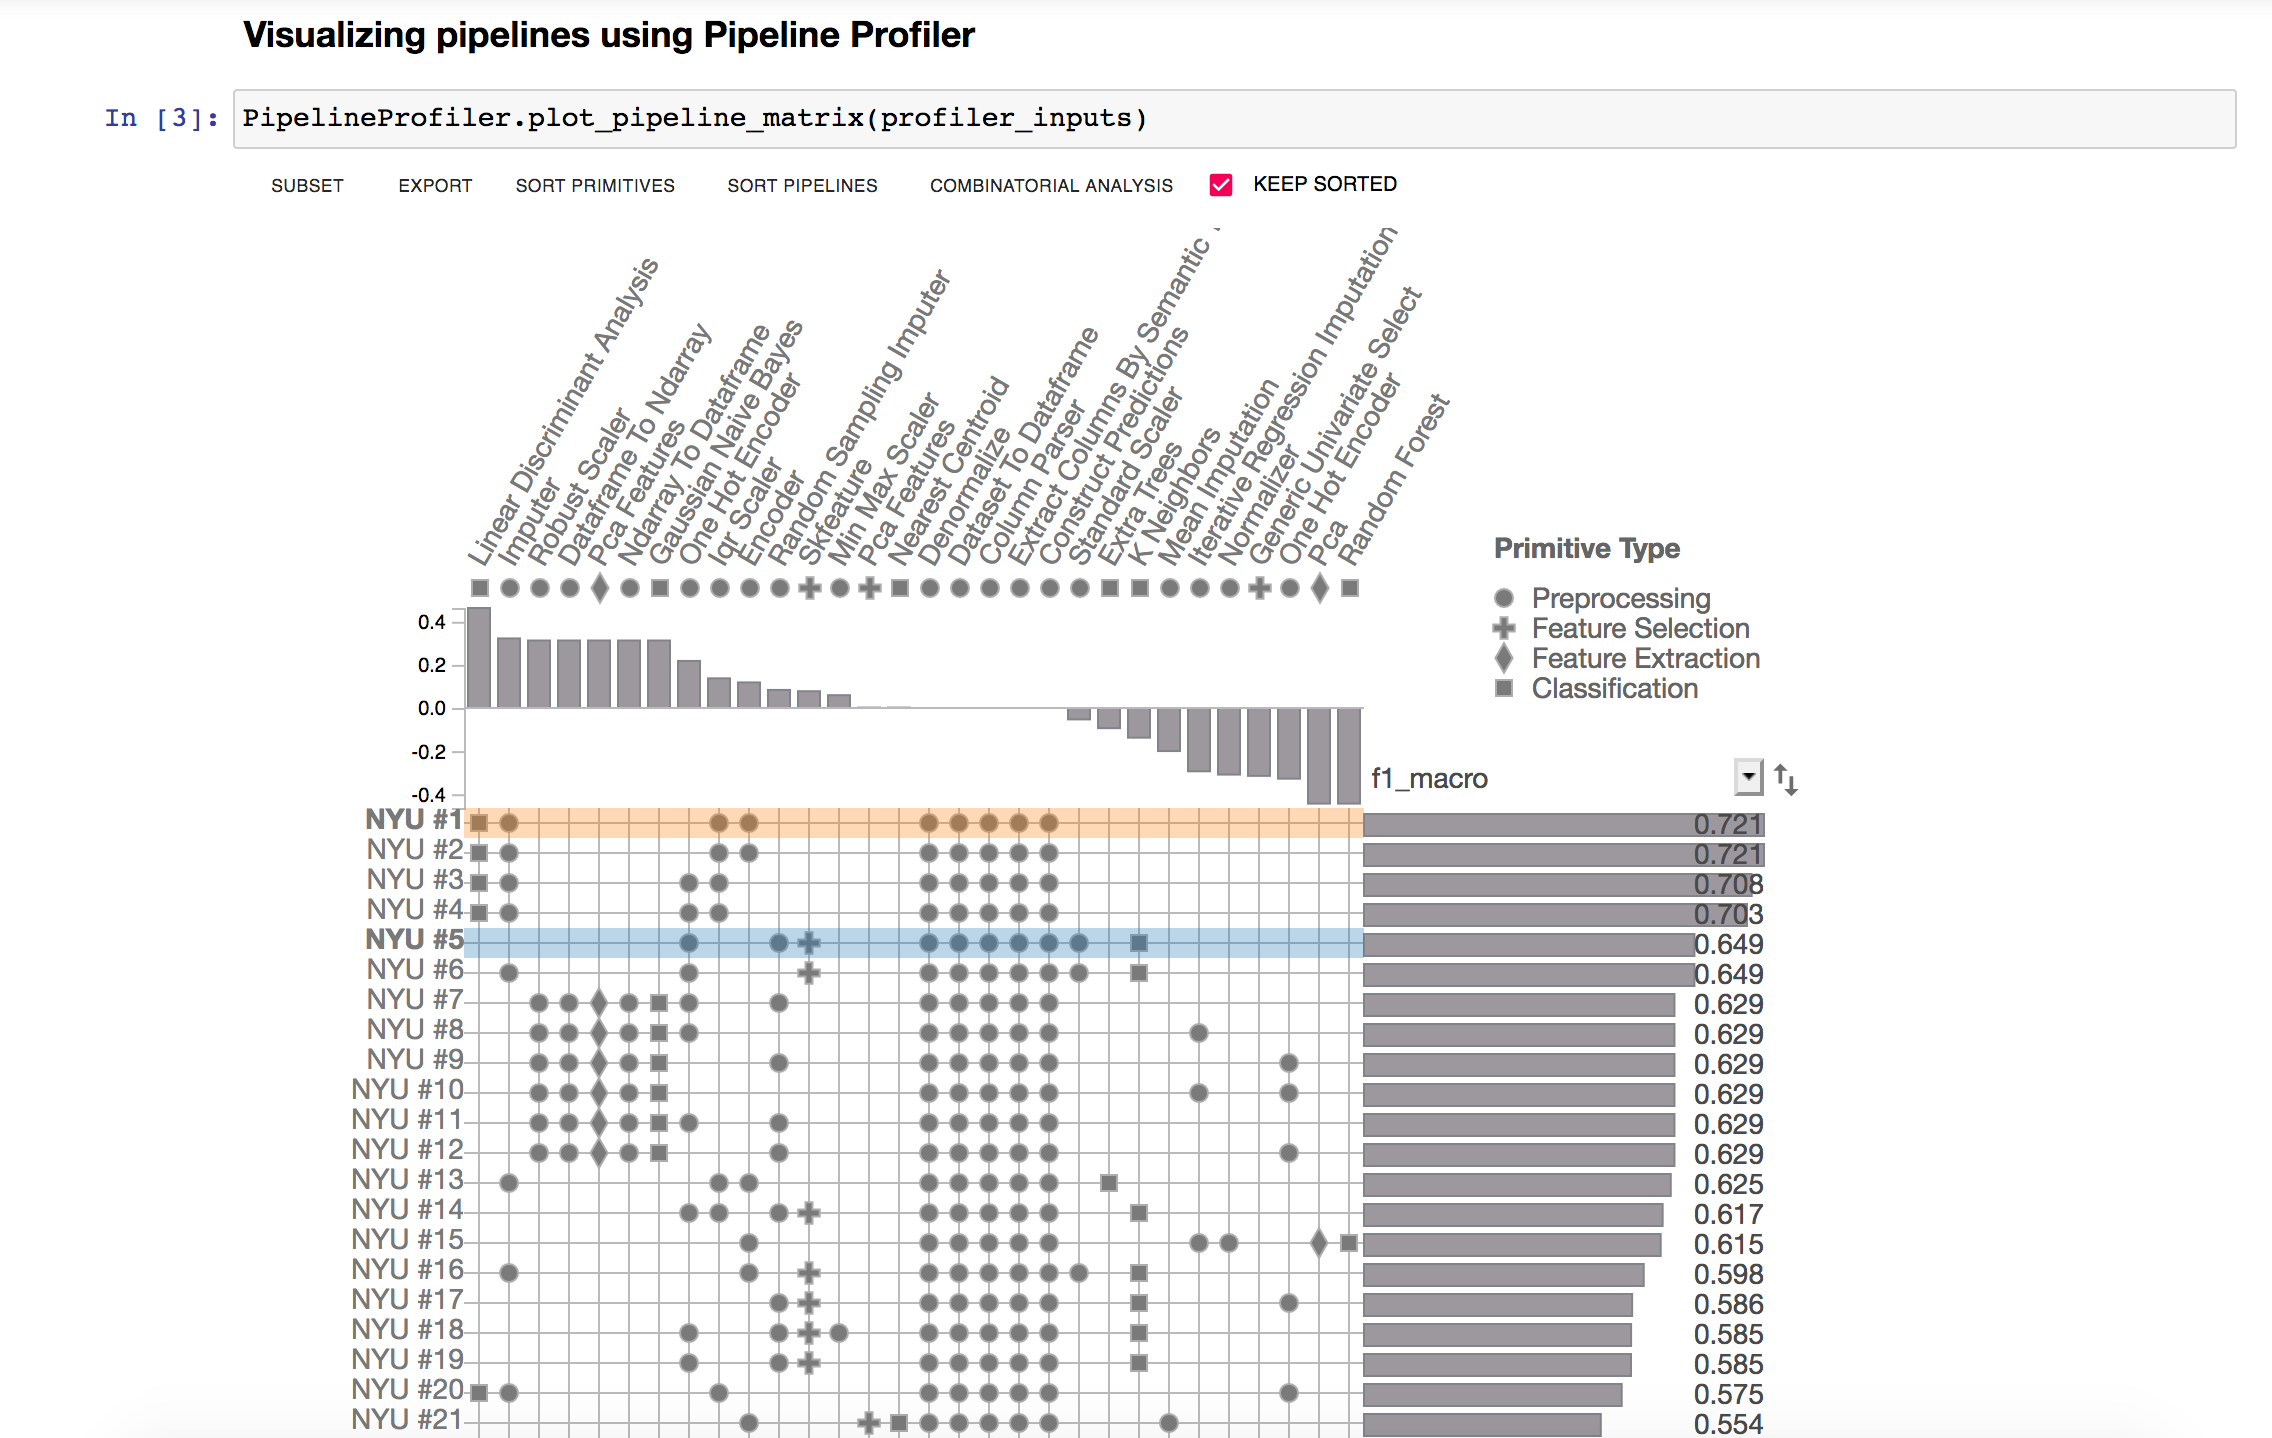
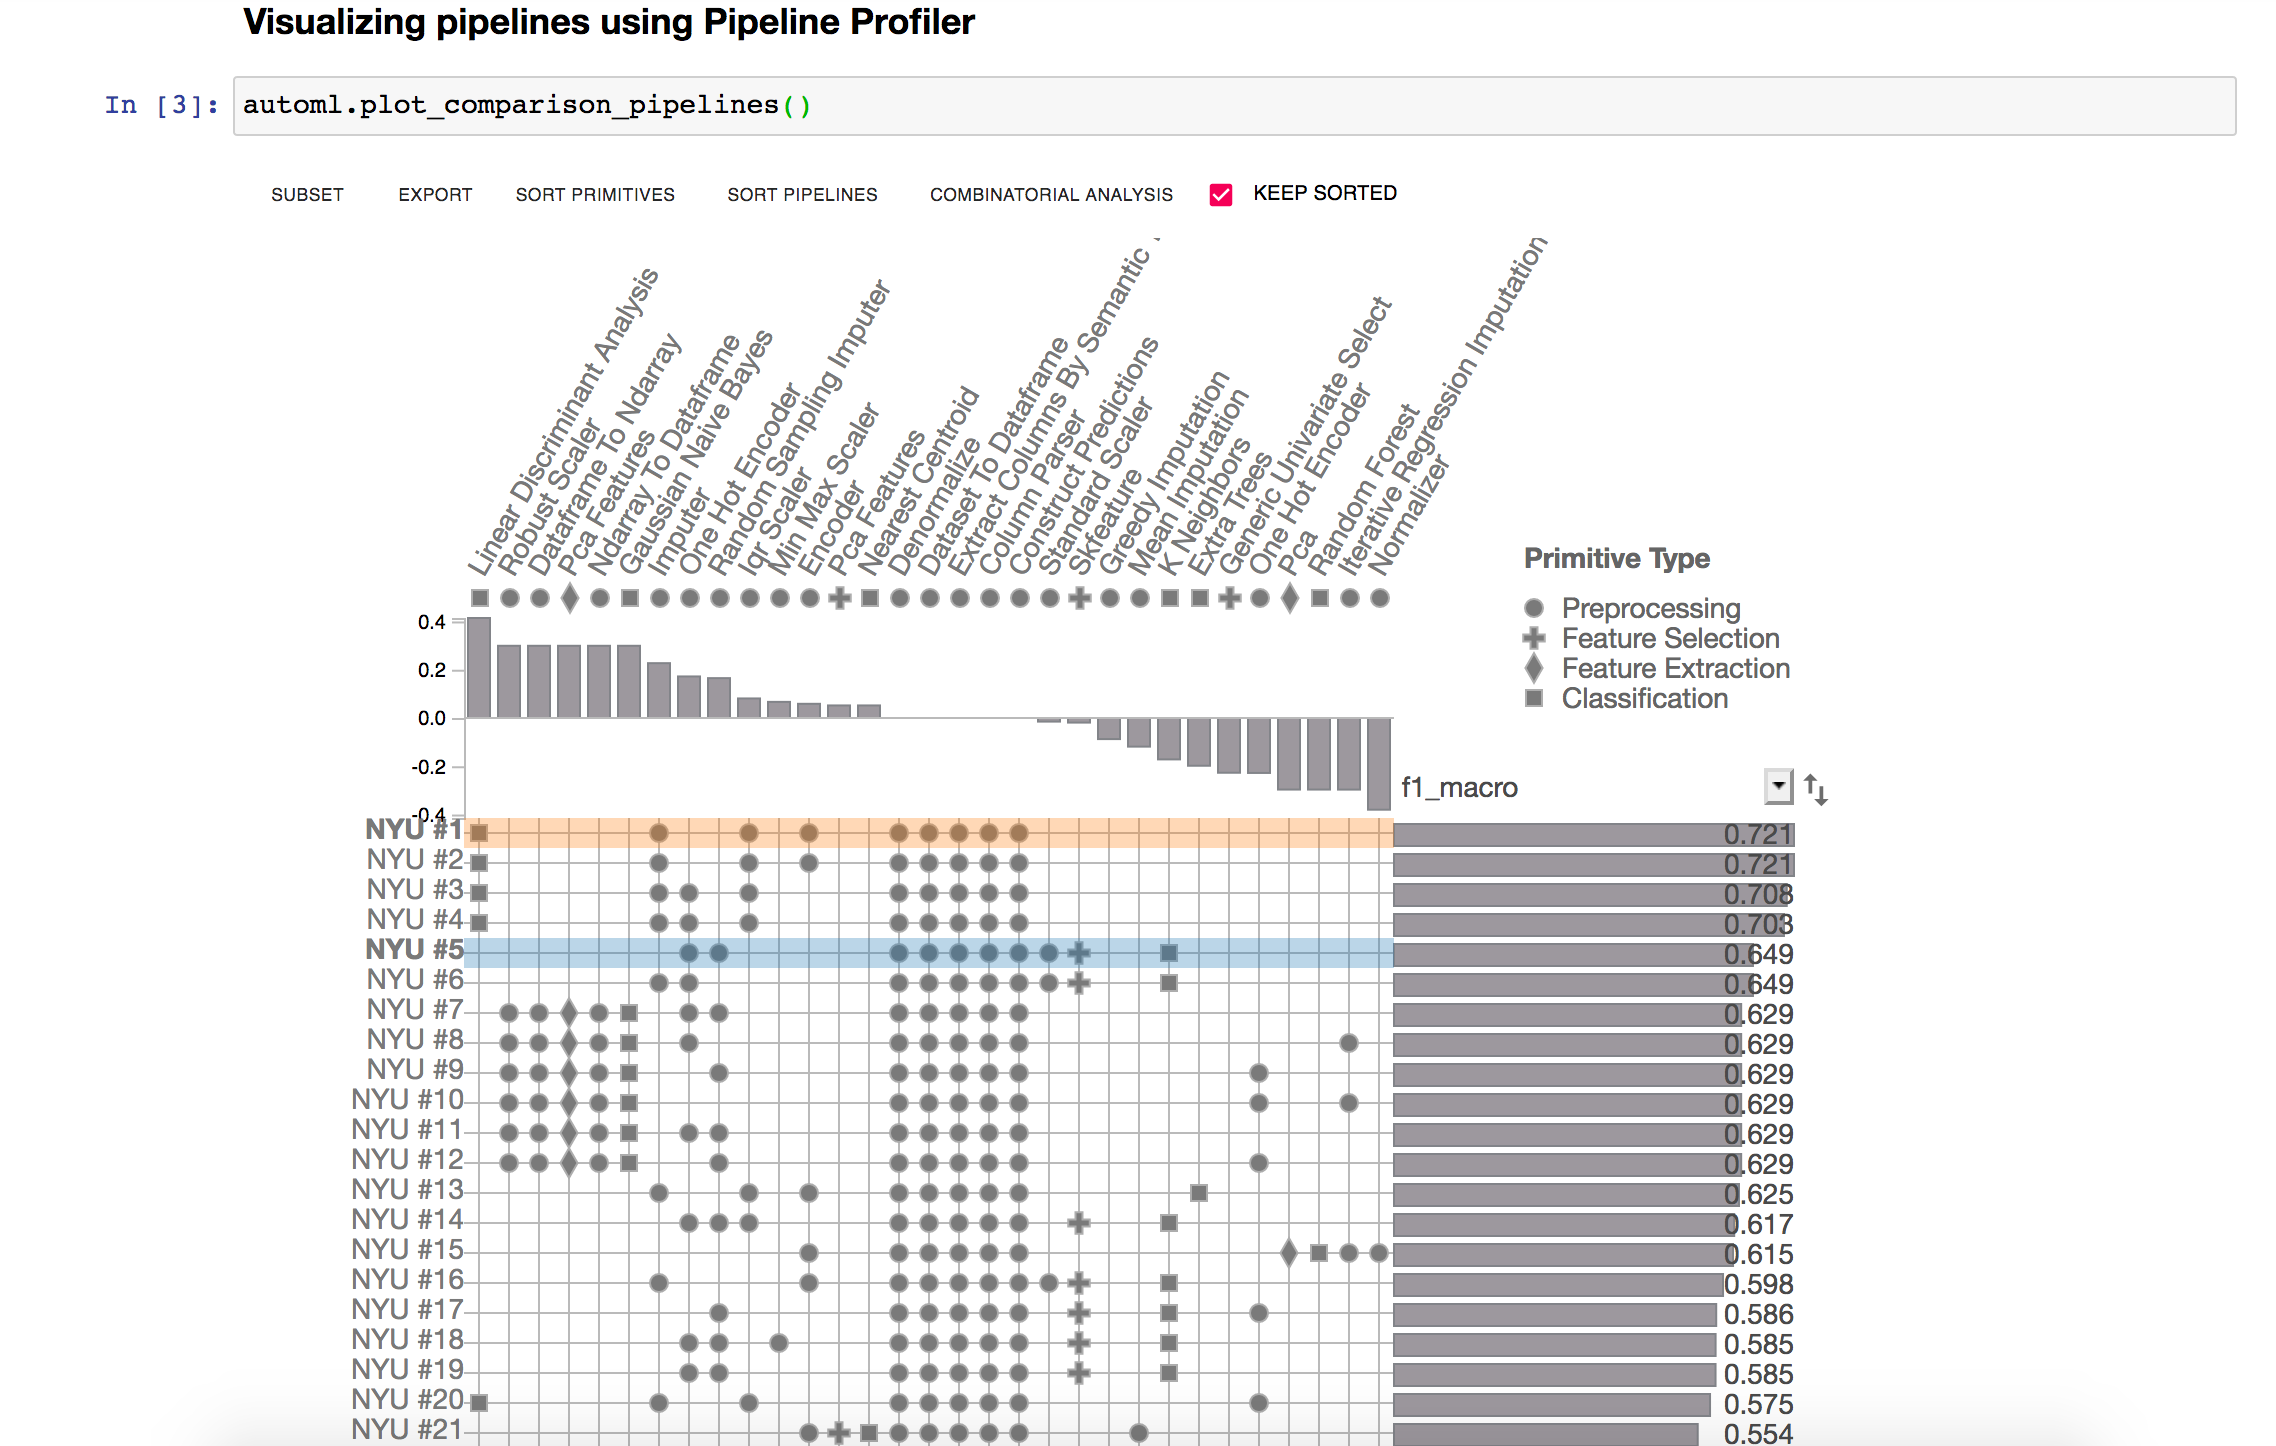
Update documentation

diff --git a/docs/source/getting-started.rst b/docs/source/getting-started.rst
@@ -21,12 +21,11 @@ Model Generation
 The model generation component provides methods to search, train, test, and score pipelines.
 
 
-Import required libraries:
+Import required library:
 
 .. code-block:: python
 
     from d3m_interface import Automl
-    import PipelineProfiler
 
 Searching pipelines:
 
@@ -65,14 +64,11 @@ Model Exploration
 The model exploration component uses `PipelineProfiler <https://pypi.org/project/pipelineprofiler/>`__ to compare and explore the pipelines generated by the AutoML systems.
 
 
-After the pipeline search process, we can use PipelineProfiler with just two lines of code:
+After the pipeline search process, we can use PipelineProfiler with just one line of code:
 
 .. code-block:: python
 
-    # Creating inputs for PipelineProfiler using the produced pipelines
-    profiler_inputs = automl.create_profiler_inputs()
-    # Generating interactive visualization
-    PipelineProfiler.plot_pipeline_matrix(profiler_inputs)
+    automl.plot_comparison_pipelines()
 
 Pipeline Matrix view shows the pipelines as rows, and the primitives as columns.
 
